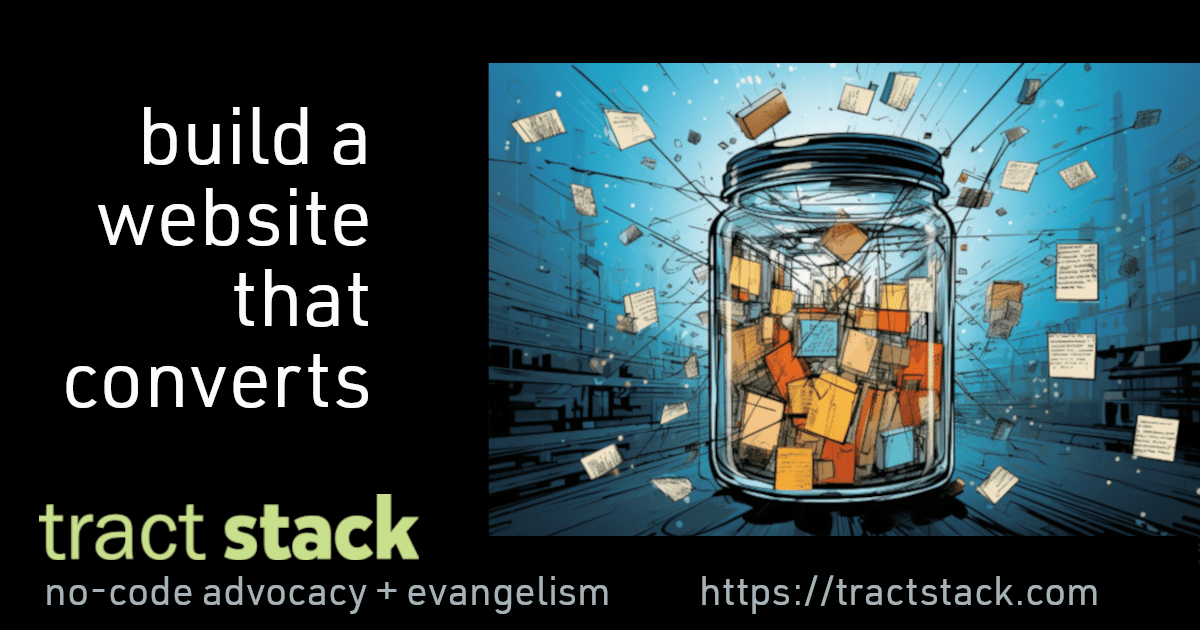
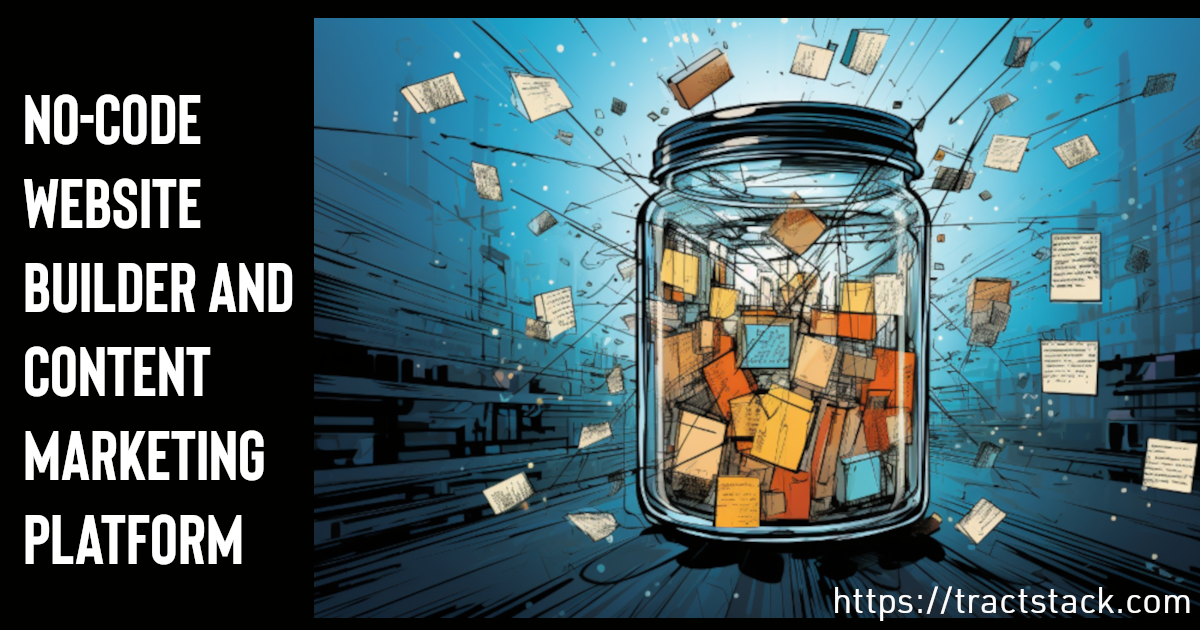
better default images

diff --git a/src/components/storykeep/fields/EnvironmentSettings.tsx b/src/components/storykeep/fields/EnvironmentSettings.tsx
@@ -6,12 +6,14 @@ import {
   PlusIcon,
   ChevronUpDownIcon,
   ExclamationTriangleIcon,
+  InformationCircleIcon,
 } from "@heroicons/react/24/outline";
 import { envSettings } from "../../../store/storykeep";
 import ContentEditableField from "../components/ContentEditableField";
 import { DesignSnapshotModal } from "../components/DesignSnapshotModal";
 import RebuildProgressModal from "../components/RebuildProgressModal";
 import BrandColorPicker from "./BrandColorPicker";
+import BrandImageUpload from "../components/BrandImageUpload";
 import ThemeVisualSelector from "../components/ThemeVisualSelector";
 import { knownEnvSettings, knownBrand } from "../../../constants";
 import { socialIconKeys } from "../../../assets/socialIcons";
@@ -127,11 +129,19 @@ const groupOrder = [
   "Backend",
 ];
 const wordmarkModeOptions = ["default", "logo", "wordmark"];
+const showHelpInfo = [
+  `PUBLIC_LOGO`,
+  `PUBLIC_WORDMARK`,
+  `PUBLIC_OG`,
+  `PUBLIC_OGLOGO`,
+  `PUBLIC_FAVICON`,
+];
 
 const EnvironmentSettings = ({
   contentMap,
   showOnlyGroup,
 }: EnvironmentSettingsProps) => {
+  const [brandImages, setBrandImages] = useState<Record<string, string>>({});
   const [selectedBrandPreset, setSelectedBrandPreset] =
     useState<string>("default");
   const [customColors, setCustomColors] = useState<string | null>(null);
@@ -555,9 +565,12 @@ const EnvironmentSettings = ({
       >
         {setting.description}
         <div className="relative ml-1 group">
+          {showHelpInfo.includes(setting.name) && (
+            <InformationCircleIcon className="h-5 w-5 text-myblue cursor-help" />
+          )}
           <div className="absolute left-0 bottom-full mb-2 hidden group-hover:block bg-white border border-mylightgrey rounded p-2 shadow-lg z-10 w-64">
             <p className="text-sm text-mydarkgrey">
-              {setting.required ? "Required field. " : ""}
+              {setting.description} {setting.defaultValue}
             </p>
           </div>
         </div>
@@ -858,6 +871,60 @@ const EnvironmentSettings = ({
           </div>
         </div>
       );
+    } else if (
+      setting.name === "PUBLIC_LOGO" ||
+      setting.name === "PUBLIC_WORDMARK" ||
+      setting.name === "PUBLIC_OG" ||
+      setting.name === "PUBLIC_OGLOGO" ||
+      setting.name === "PUBLIC_FAVICON"
+    ) {
+      const getImageConfig = (settingName: string) => {
+        const baseName = settingName.replace("PUBLIC_", "").toLowerCase();
+        return {
+          height:
+            settingName === "PUBLIC_WORDMARK"
+              ? undefined
+              : settingName === "PUBLIC_OG"
+                ? 500
+                : settingName === "PUBLIC_OGLOGO"
+                  ? 200
+                  : settingName === "PUBLIC_FAVICON"
+                    ? 48
+                    : 80,
+          width: settingName === "PUBLIC_WORDMARK" ? 200 : undefined,
+          types:
+            settingName === "PUBLIC_FAVICON"
+              ? [".ico", ".svg", ".png"]
+              : settingName === "PUBLIC_OG" || settingName === "PUBLIC_OGLOGO"
+                ? [".jpg", ".jpeg", ".png"]
+                : [".svg", ".png"],
+          filename: baseName,
+        };
+      };
+      const config = getImageConfig(setting.name);
+      return (
+        <div key={setting.name} className="space-y-2 mb-4">
+          {renderLabel()}
+          <BrandImageUpload
+            id={setting.name}
+            value={brandImages[setting.name] || ""}
+            path={setting.value}
+            onChange={(value: string, ext: string) => {
+              // Store the base64 in local state
+              setBrandImages(prev => ({ ...prev, [setting.name]: value }));
+              // Update the env setting with the path
+              handleSettingChange(
+                index,
+                "value",
+                `/custom/${config.filename}${ext}`
+              );
+            }}
+            height={config.height}
+            width={config.width}
+            allowedTypes={config.types}
+          />
+        </div>
+      );
     } else if (setting.name === "PUBLIC_HOME") {
       return (
         <div key={setting.name} className="space-y-2 mb-4">
@@ -1019,52 +1086,52 @@ const EnvironmentSettings = ({
   );
 
   const MustSaveContainer = () => (
-<div className="bg-myblue/5 p-4 rounded-md mb-4 space-y-4">
-          <p className="text-myblue font-bold">
-            {hasBrandColorChanges
-              ? "Brand colors have changed. This requires regenerating design previews."
-              : "UNSAVED CHANGES! Be very careful adjusting any technical settings. When ready hit publish to push these changes to your site."}
-          </p>
-          {!hasBrandColorChanges && (
-            <p className="text-mydarkgrey">
-              Note: this triggers a 0-2 second "reload" of your website. Active
-              users are unlikely to be impacted.
-            </p>
-          )}
-          <div className="flex justify-end space-x-2 mt-6">
-            <a
-              className="px-4 py-2 text-white bg-mydarkgrey rounded hover:bg-myblue"
-              href="/storykeep"
+    <div className="bg-myblue/5 p-4 rounded-md mb-4 space-y-4">
+      <p className="text-myblue font-bold">
+        {hasBrandColorChanges
+          ? "Brand colors have changed. This requires regenerating design previews."
+          : "UNSAVED CHANGES! Be very careful adjusting any technical settings. When ready hit publish to push these changes to your site."}
+      </p>
+      {!hasBrandColorChanges && (
+        <p className="text-mydarkgrey">
+          Note: this triggers a 0-2 second "reload" of your website. Active
+          users are unlikely to be impacted.
+        </p>
+      )}
+      <div className="flex justify-end space-x-2 mt-6">
+        <a
+          className="px-4 py-2 text-white bg-mydarkgrey rounded hover:bg-myblue"
+          href="/storykeep"
+        >
+          Cancel
+        </a>
+        {hasBrandColorChanges ? (
+          <button
+            onClick={handleSavePublish}
+            className="px-4 py-2 text-black bg-myorange/50 rounded hover:bg-myblue hover:text-white"
+          >
+            Save and Rebuild Design Previews
+          </button>
+        ) : (
+          <>
+            <button
+              onClick={handleSave}
+              className="px-4 py-2 text-white bg-myorange rounded hover:bg-myblue disabled:bg-mydarkgrey disabled:cursor-not-allowed"
+              disabled={hasUncleanData}
             >
-              Cancel
-            </a>
-            {hasBrandColorChanges ? (
-              <button
-                onClick={handleSavePublish}
-                className="px-4 py-2 text-black bg-myorange/50 rounded hover:bg-myblue hover:text-white"
-              >
-                Save and Rebuild Design Previews
-              </button>
-            ) : (
-              <>
-                <button
-                  onClick={handleSave}
-                  className="px-4 py-2 text-white bg-myorange rounded hover:bg-myblue disabled:bg-mydarkgrey disabled:cursor-not-allowed"
-                  disabled={hasUncleanData}
-                >
-                  Save Changes Only
-                </button>
-                <button
-                  onClick={handleSavePublish}
-                  className="px-4 py-2 text-black bg-myorange/50 rounded hover:bg-myblue hover:text-white"
-                >
-                  Save and Re-Publish Website
-                </button>
-              </>
-            )}
-          </div>
-        </div>
-  )
+              Save Changes Only
+            </button>
+            <button
+              onClick={handleSavePublish}
+              className="px-4 py-2 text-black bg-myorange/50 rounded hover:bg-myblue hover:text-white"
+            >
+              Save and Re-Publish Website
+            </button>
+          </>
+        )}
+      </div>
+    </div>
+  );
 
   return (
     <div className="space-y-8">
@@ -1090,7 +1157,7 @@ const EnvironmentSettings = ({
         </div>
       )}
       {!showOnlyGroup && hasUnsavedChanges && !hasUncleanData && (
-       <MustSaveContainer /> 
+        <MustSaveContainer />
       )}
       {groupOrder.map(group => {
         // Skip groups that don't match showOnlyGroup if it's set
@@ -1123,7 +1190,7 @@ const EnvironmentSettings = ({
         );
       })}
       {!showOnlyGroup && hasUnsavedChanges && !hasUncleanData && (
-       <MustSaveContainer /> 
+        <MustSaveContainer />
       )}
       {showOnlyGroup && hasUnsavedChanges && !hasUncleanData && (
         <div className="bg-myblue/5 p-4 rounded-md mb-4 space-y-4">

diff --git a/src/components/storykeep/components/BrandImageUpload.tsx b/src/components/storykeep/components/BrandImageUpload.tsx
@@ -1,0 +1,118 @@
+import { useRef } from "react";
+import { XMarkIcon, ArrowUpTrayIcon } from "@heroicons/react/24/outline";
+import type { ChangeEvent } from "react";
+
+interface BrandImageUploadProps {
+  id: string;
+  value: string; // base64 data
+  path: string; // /custom/filename.ext
+  onChange: (base64: string, extension: string) => void;
+  height?: number;
+  width?: number;
+  allowedTypes: string[];
+}
+
+const BrandImageUpload = ({
+  id,
+  value,
+  path,
+  onChange,
+  height = 80,
+  width,
+  allowedTypes,
+}: BrandImageUploadProps) => {
+  const fileInputRef = useRef<HTMLInputElement>(null);
+
+  const handleUploadClick = () => {
+    fileInputRef.current?.click();
+  };
+
+  const handleFileChange = async (event: ChangeEvent<HTMLInputElement>) => {
+    const file = event.target.files?.[0];
+    if (!file) return;
+
+    // Get file extension
+    const ext = `.${file.name.split(".").pop()?.toLowerCase()}`;
+
+    const reader = new FileReader();
+    reader.onload = e => {
+      const base64 = e.target?.result as string;
+      onChange(base64, ext);
+    };
+    reader.readAsDataURL(file);
+  };
+
+  const handleRemove = () => {
+    onChange("", "");
+    if (fileInputRef.current) {
+      fileInputRef.current.value = "";
+    }
+  };
+
+  const style = {
+    height: height ? `${height}px` : undefined,
+    width: width ? `${width}px` : undefined,
+  };
+
+  // Only check value since path will always exist after first upload
+  if (!value) {
+    return (
+      <div>
+        <button
+          onClick={handleUploadClick}
+          className="flex items-center text-sm text-myblue hover:text-myorange"
+        >
+          <ArrowUpTrayIcon className="w-4 h-4 mr-1" />
+          Upload
+        </button>
+        <input
+          type="file"
+          ref={fileInputRef}
+          onChange={handleFileChange}
+          accept={allowedTypes.join(", ")}
+          style={{ display: "none" }}
+          id={id}
+        />
+      </div>
+    );
+  }
+
+  return (
+    <div className="flex items-center space-x-4">
+      <div
+        className="relative bg-mylightgrey/5 rounded-md overflow-hidden"
+        style={style}
+      >
+        <img src={value} alt="" className="w-full h-full object-contain" />
+        <button
+          onClick={handleRemove}
+          className="absolute top-1 right-1 bg-white rounded-full p-1 shadow-md hover:bg-mylightgrey"
+        >
+          <XMarkIcon className="w-4 h-4 text-mydarkgrey" />
+        </button>
+      </div>
+      <div className="flex-grow">
+        <div className="mt-2">
+          <button
+            onClick={handleUploadClick}
+            className="flex items-center text-sm text-myblue hover:text-myorange"
+          >
+            <ArrowUpTrayIcon className="w-4 h-4 mr-1" />
+            Upload
+          </button>
+          {path && <p className="text-xs text-mydarkgrey mt-1">{path}</p>}
+        </div>
+      </div>
+      <input
+        type="file"
+        ref={fileInputRef}
+        onChange={handleFileChange}
+        accept={allowedTypes.join(", ")}
+        style={{ display: "none" }}
+        id={id}
+      />
+    </div>
+  );
+};
+
+export default BrandImageUpload;

diff --git a/src/constants.ts b/src/constants.ts
@@ -332,7 +332,7 @@ export const knownEnvSettings: EnvSetting[] = [
     name: "PUBLIC_LOGO",
     defaultValue: "(SVG preferred; or transparent PNG.)",
     type: "string",
-    description: "Url to custom logo",
+    description: "custom logo",
     group: "Brand",
     priority: false,
     required: false,
@@ -341,7 +341,7 @@ export const knownEnvSettings: EnvSetting[] = [
     name: "PUBLIC_WORDMARK",
     defaultValue: "(SVG preferred; or transparent PNG.)",
     type: "string",
-    description: "Url to custom wordmark",
+    description: "custom wordmark image",
     group: "Brand",
     priority: false,
     required: false,
@@ -350,7 +350,7 @@ export const knownEnvSettings: EnvSetting[] = [
     name: "PUBLIC_OG",
     defaultValue: "(1200x630px)",
     type: "string",
-    description: "Url to custom open graph social share image",
+    description: "custom open graph social share image",
     group: "Brand",
     priority: false,
     required: false,
@@ -359,7 +359,7 @@ export const knownEnvSettings: EnvSetting[] = [
     name: "PUBLIC_OGLOGO",
     defaultValue: "(minimum 200x200px; square)",
     type: "string",
-    description: "Url to custom open graph social share logo",
+    description: "custom open graph social share logo",
     group: "Brand",
     priority: false,
     required: false,
@@ -368,7 +368,7 @@ export const knownEnvSettings: EnvSetting[] = [
     name: "PUBLIC_FAVICON",
     defaultValue: "(ico format recommended, 48x48)",
     type: "string",
-    description: "Url to custom favicon",
+    description: "custom favicon",
     group: "Brand",
     priority: false,
     required: false,
